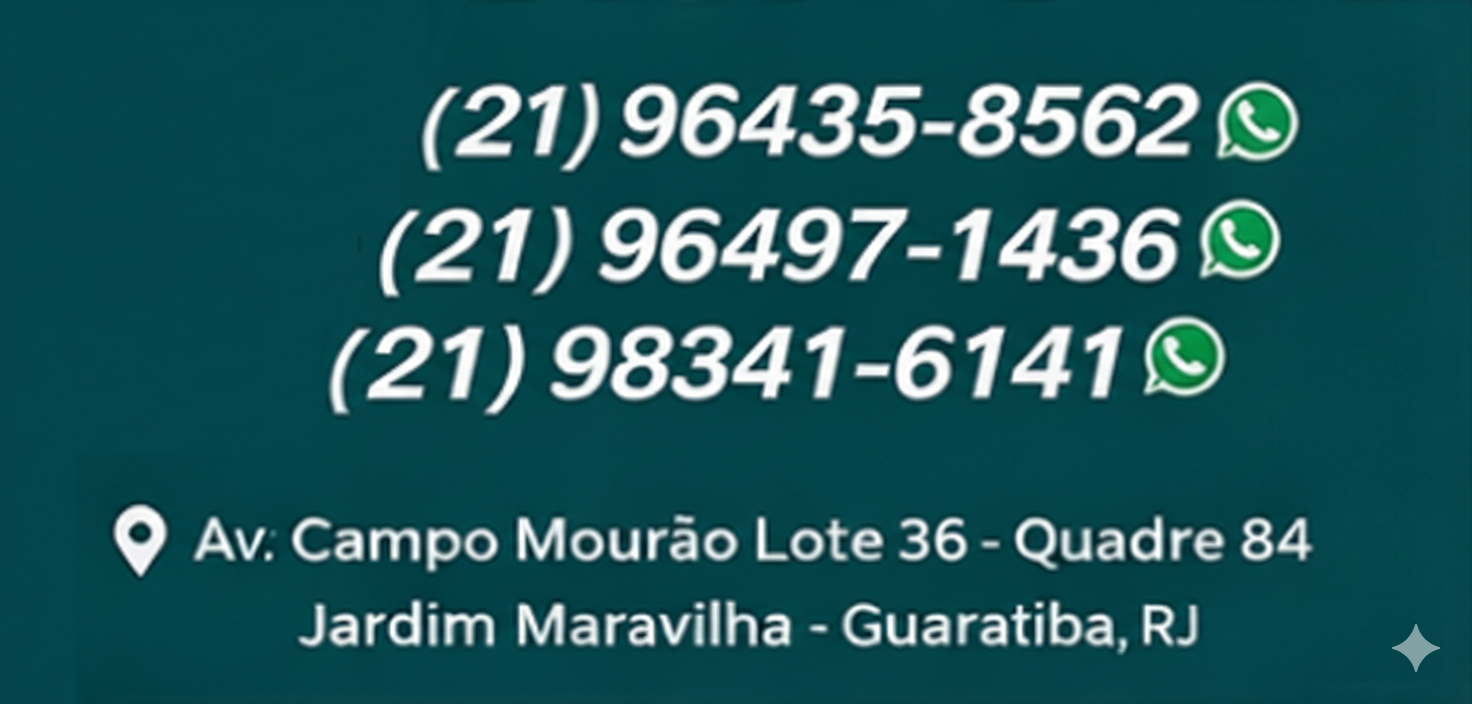
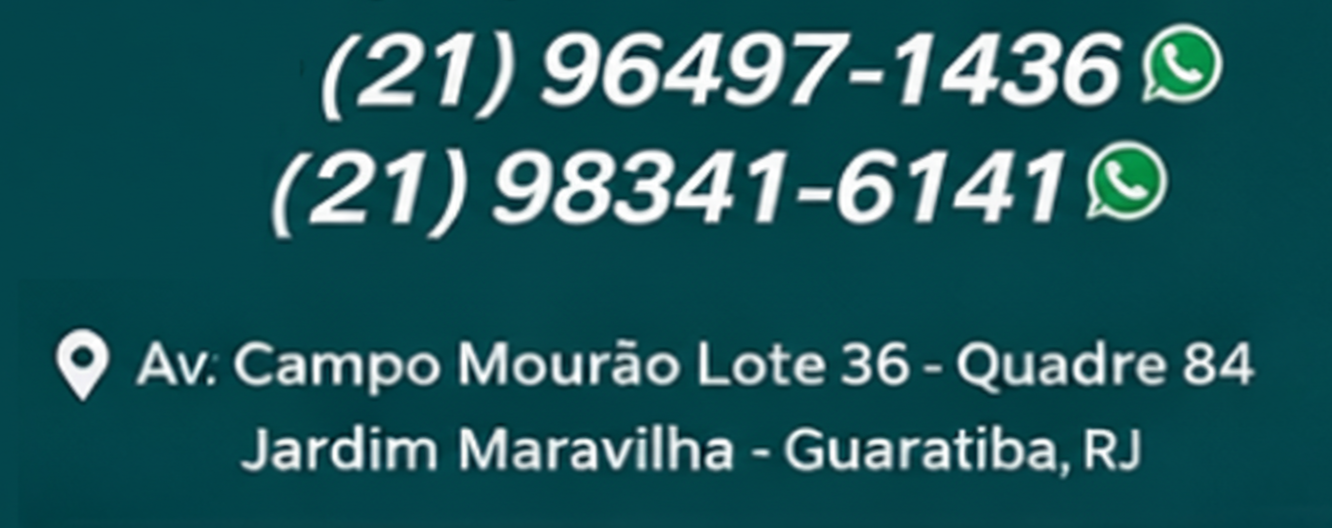
1.1

Changed region(s): [[0.1847, 0.0303, 0.9234, 0.6061], [0.0308, 0.6061, 0.9542, 0.9394], [0.9234, 0.8788, 0.985, 0.9394]]

diff --git a/index.html b/index.html
@@ -27,8 +27,8 @@
                 <a href="#sobre">Sobre</a>
             </nav>
 
-            <a href="https://wa.me/+5521964358562?text=Ol%C3%A1!%20Vim%20do%20site%20e%20gostaria%20de%20marcar%20uma%20revis%C3%A3o%20para%20meu%20carro" class="header-phone">
-                ☎ (21) 96435-8562
+            <a href="https://wa.me/+5521964971436?text=Ol%C3%A1!%20Vim%20do%20site%20e%20gostaria%20de%20marcar%20uma%20revis%C3%A3o%20para%20meu%20carro" class="header-phone">
+                ☎ (21) 96497-1436
             </a>
         </div>
     </header>
@@ -42,7 +42,7 @@
                     Oferecemos serviços completos de mecânica em geral
                     com qualidade e confiança.
                 </p>
-                <a href="https://wa.me/+5521967166770?text=Ol%C3%A1!%20Vim%20do%20site%20e%20gostaria%20de%20marcar%20uma%20revis%C3%A3o%20para%20meu%20carro" class="btn">Agende sua revisão</a>
+                <a href="https://wa.me/+5521983416141?text=Ol%C3%A1!%20Vim%20do%20site%20e%20gostaria%20de%20marcar%20uma%20revis%C3%A3o%20para%20meu%20carro" class="btn">Agende sua revisão</a>
             </div>
         </div>
 
@@ -112,7 +112,7 @@
                     </p>
                     <p>
                     Tel:
-                    <span class="bold numberPhone">21 96435-8562</span>
+                    <span class="bold numberPhone">21 98341-6141</span>
                     </p>
                 </div>
             </div>

diff --git a/css/style.css b/css/style.css
@@ -138,9 +138,10 @@ img.img-logo {
 .hero-down img {
   position: absolute;
   bottom: -90px;
-  left: 290%;
+  left: 292%;
   transform: translateX(-50%);
-  width: 548px;
+  width: 555px;
+  height: 265px;
   margin: 0px;
   clip-path: polygon(28% 0, 100% 0, 100% 100%, 0 100%);
 }
